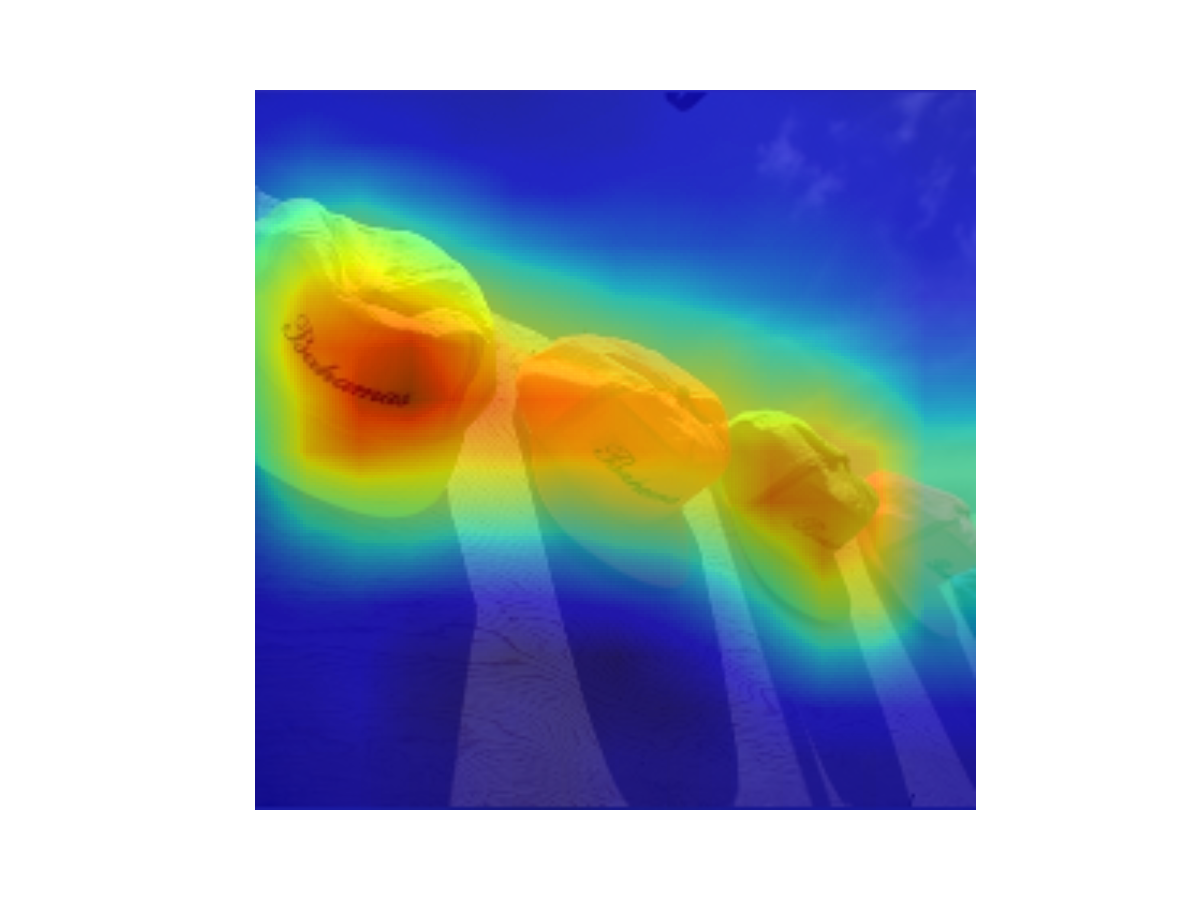
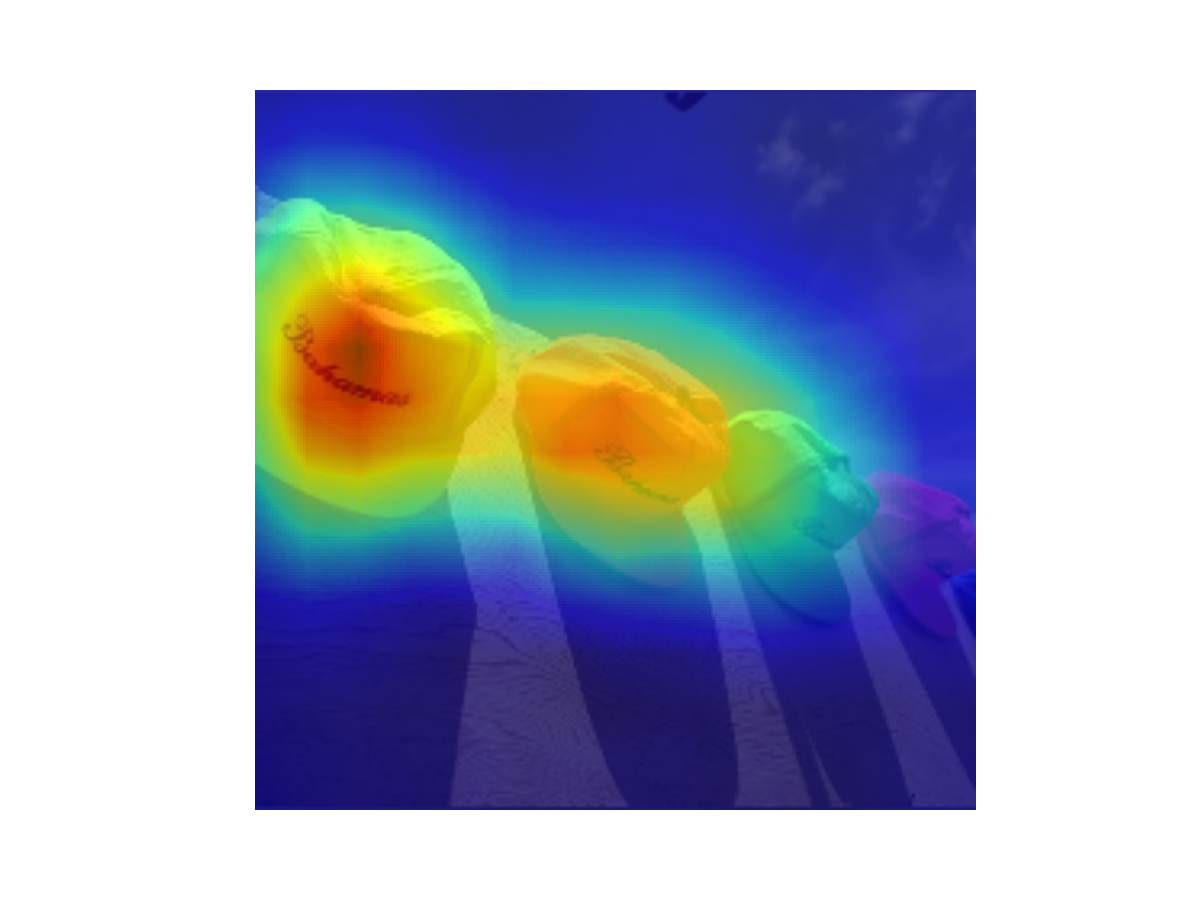
add the checks for file, update possible issues on readme and add requirements.txt

Changed region(s): [[0.185, 0.0933, 0.8325, 0.9022], [0.185, 0.2489, 0.2467, 0.28]]

diff --git a/generate_map.py b/generate_map.py
@@ -1,29 +1,29 @@
 from __future__ import division
+
+import os, sys
 import matplotlib
 matplotlib.use('Agg')
 import matplotlib.pyplot as plt
 plt.style.use('ggplot')
-import tensorflow as tf
+
+from util import load_single_image, normalize
+if os.path.exists(sys.argv[1]): 
+    image = load_single_image(sys.argv[1])
+else: 
+    raise Exception("Image file " + sys.argv[1] + " does not exist")
+
+# this is to ensure fast failure, why load other modules if no input file
+# matplotlib has to be loaded before inorder to change backend
+
 import pandas as pd
 import numpy as np
 from model import CNN
-from util import load_single_image
 from params import HyperParams
 import skimage.io
-import matplotlib.pyplot as plt
-import os
-import sys
 
 
-image = load_single_image(sys.argv[1])
+import tensorflow as tf
 hyper = HyperParams(verbose=False)
-
-def normalize(x):
-    min = np.min(x)
-    max = np.max(x)
-    return (x-min)/(max-min)
-
-
 images_tf = tf.placeholder(tf.float32, [None, hyper.image_h, hyper.image_w, hyper.image_c], name="images")
 class_tf  = tf.placeholder(tf.int64, [None], name='class')
 

diff --git a/util.py b/util.py
@@ -1,7 +1,7 @@
 import skimage.io
 import skimage.transform
 import numpy as np
-import Image
+from PIL import Image
 
 def chunker(seq, size):
     # http://stackoverflow.com/a/25701576/1189865
@@ -41,3 +41,9 @@ def array2PIL(arr):
         arr = np.c_[arr, 255*np.ones((len(arr),1), np.uint8)]
 
     return Image.frombuffer(mode, (shape[1], shape[0]), arr.tostring(), 'raw', mode, 0, 1)
+
+
+def normalize(x):
+    min = np.min(x)
+    max = np.max(x)
+    return (x-min)/(max-min)

diff --git a/params.py b/params.py
@@ -7,7 +7,7 @@ class HyperParams() :
         self.vgg_weights = './data/caffe_layers_value.pickle'
         self.model_path  = 'models/model-50'
         self.n_labels    = 257
-        self.top_k       = 10  
+        self.top_k       = 5  
         self.stddev      = 0.2
         self.fine_tuning = False
         self.image_h     = 224

diff --git a/combine_images.py b/combine_images.py
@@ -1,6 +1,6 @@
 # from __future__ import division
 import sys
-import Image
+from PIL import Image
 import os
 import numpy as np
 from util import load_image, array2PIL

diff --git a/README.md b/README.md
@@ -1,6 +1,6 @@
 # Semantic Perceptual Image Compression using Deep Convolution Networks
 
-This code is part of the paper [arxiv](https://arxiv.org/abs/1612.08712) . It consists of three parts:
+This code is part of the paper [arxiv](https://arxiv.org/abs/1612.08712), abstract of the paper is provided at the bottom of this page. It consists of three parts:
 
 1. Code to generate Multi-structure region of interest (MSROI)
    (This uses CNN model. A pretrained model has been provided)
@@ -9,10 +9,16 @@ This code is part of the paper [arxiv](https://arxiv.org/abs/1612.08712) . It co
 
 3. Code to train a CNN model (to be used by 1)
 
+
 Requirements:
 1. Tensorflow
-2. Python PIL
-3. Python Skimage
+2. Numpy
+3. Pandas
+4. Python PIL
+5. Python SKimage
+
+For detailed requirements list please see requirements.txt
+
 
 Recomended:
 1. Imagemagick (for faster image operations)
@@ -32,6 +38,7 @@ Table of Contents
       * [Design Choices](#design-choices)
    * [FAQ about image compression](#faq-about-image-compression)
    * [Credits](#credits)
+   * [Abstract](#abstract)
 
 # How to use this code ?
 
@@ -162,6 +169,22 @@ Only our model identifies the face of the boy on the right as well the hands of 
    No. Because the final image is encoded using a single Q. Please see Section 4 of our paper. 
 
 
+# Possible Issues
+
+1. Cannot import Image (in util.py)
+   Resolution: Change it to `from PIL import Image`
+
+2. ValueError: setting an array element with a sequence.
+   Resolution: The image file you are passing does not exist
+
+3. UserWarning: Possible precision loss when converting from float32 to uint8
+   Resolution: This is only a warning from skimage. Nothing needs to be done
+
+4. No message or nothing
+   Default behaviour of the program is such that there is no message unless there is an error,
+   or verbose is set to True. Check "output" directory for output files. If there is no output
+   directory then make one and run the code again.
+
 # Credits
 
  * CNN structure based on VGG16, https://github.com/ry/tensorflow-vgg16/blob/master/vgg16.py
@@ -170,3 +193,25 @@ Only our model identifies the face of the boy on the right as well the hands of 
  * Conv2d layer based on https://github.com/carpedm20/DCGAN-tensorflow/blob/master/ops.py
 
 My sincere thanks to [@jazzsaxmafia](https://github.com/jazzsaxmafia), [@carpedm20](https://github.com/carpedm20) and [@metalbubble](https://github.com/metalbubble) from whose code I learned and borrowed heavily.
+
+# Abstract
+========================================================================================================================
+> It has long been considered a significant problem to improve the visual quality of lossy image
+> and video compression. Recent advances in computing power together with the availability
+> of large training data sets has increased interest in the application of deep learning cnns
+> to address image recognition and image processing tasks. Here, we present a powerful cnn
+> tailored to the specific task of semantic image understanding to achieve higher visual quality
+> in lossy compression. A modest increase in complexity is incorporated to the encoder which
+> allows a standard, off-the-shelf jpeg decoder to be used. While jpeg encoding may be
+> optimized for generic images, the process is ultimately unaware of the specific content of
+> the image to be compressed. Our technique makes jpeg content-aware by designing and
+> training a model to identify multiple semantic regions in a given image. Unlike object
+> detection techniques, our model does not require labeling of object positions and is able to
+> identify objects in a single pass. We present a new cnn architecture directed specifically to
+> image compression, which generates a map that highlights semantically-salient regions so
+> that they can be encoded at higher quality as compared to background regions. By adding
+> a complete set of features for every class, and then taking a threshold over the sum of all
+> feature activations, we generate a map that highlights semantically-salient regions so that
+> they can be encoded at a better quality compared to background regions. Experiments are
+> presented on the Kodak PhotoCD dataset and the MIT Saliency Benchmark dataset, in
+> which our algorithm achieves higher visual quality for the same compressed size.
